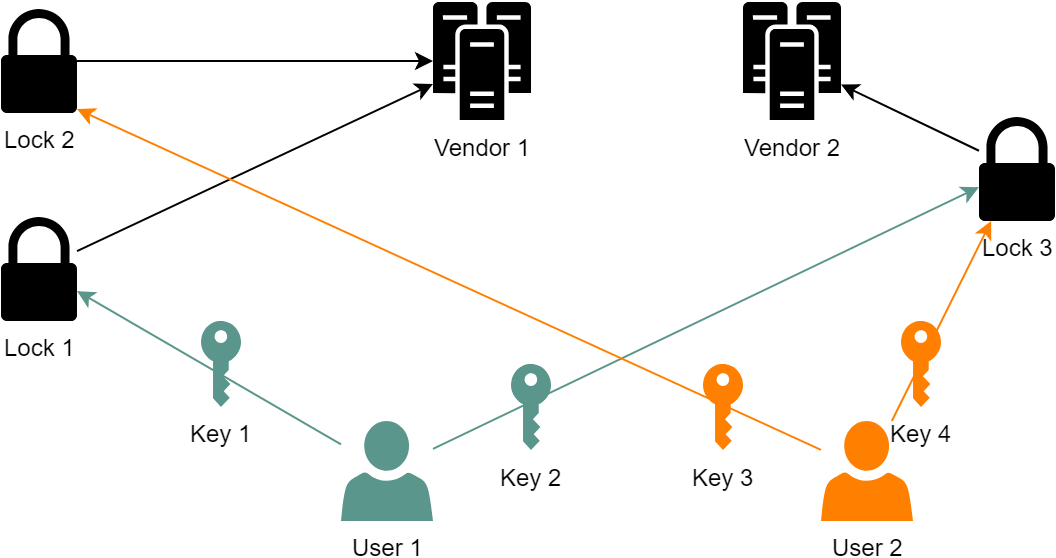
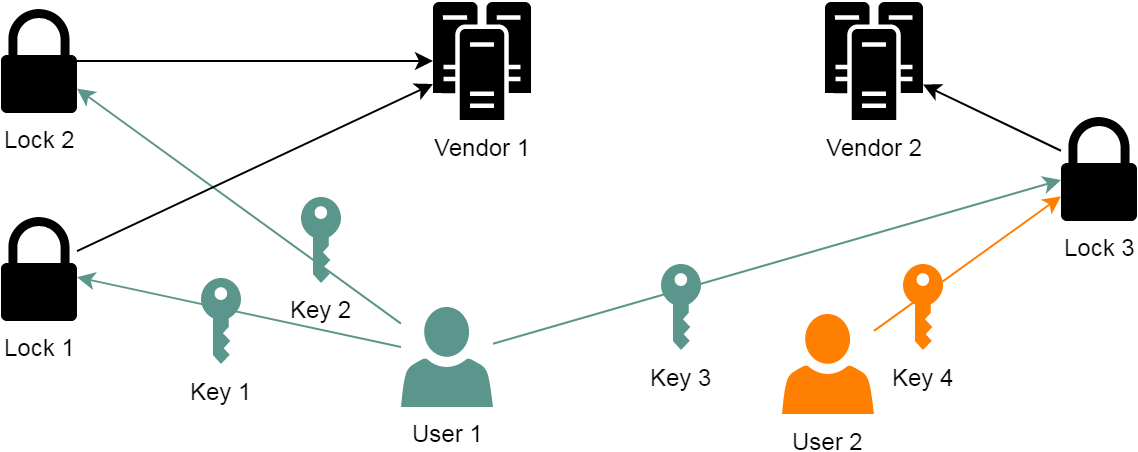
Updates from ShareLaTeX

diff --git a/050_evaluation.tex b/050_evaluation.tex
@@ -1,8 +1,9 @@
 \section{Evaluation des Prototypen}
 \label{sec:evaluation}
+    Mittels des Frameworks wird eine \gls{rest}-\gls{api} generiert, die für die Evauluation des Prototypen bei Bedarf verwendet wird. 
+    Diese wird so konfiguiert, dass deren Verwendung eine Authentifizierung voraussetzt, sowie jeglicher Nachrichtenaustausch mittels \gls{tls} verschlüsselt wird.
 
-    \subsection{Vulnerability Assessment des Prototypen}
-
+    \subsection{Vulnerability Assessment}
         \begin{itemize}[noitemsep]
             \item Evaluierung nach \cite{Miessler}, aber Fokus auf die in \fref{sec:prototype_requirements} ausgewählten Schwachstellen. 
             \item Vorgehen für jeden Punkt bei der Evaluierung beschreiben und Ergebnisse festhalten. 
@@ -17,88 +18,90 @@
         \end{itemize}
     
         \subsubsection*{I1: Insecure Web Interface}
-           \begin{itemize}[leftmargin=0cm,label={}]
-                \item \emph{Insecure API: User Enumeration}\label{vuln:prototype_userenum}\\
-                    Stuff.
-           \end{itemize} 
+            Da der Prototyp kein Webinterface hat, kann dieser Aspekt für die Evauluation nicht betrachtet werden.
            
         \subsubsection*{I2: Insecure Authentification/Authorization}
             \begin{itemize}[leftmargin=0cm,label={}]
                 \item \emph{Insufficient Password Protection}\label{vuln:prototype_pwdprot}\\
         	        Stuff.
+    	        \item Authentifizierung zur Nutzung der \gls{rest}-\gls{api}
             \end{itemize}
             
         \subsubsection*{I3: Insecure Network Services}
             \begin{itemize}[leftmargin=0cm,label={}]
-                \item \emph{Denial of Service via Commands}\label{vuln:prototype_doscmd}\\
-        	        Stuff.
+                \item \emph{Denial of Service via \gls{rest}-Server}\label{vuln:prototype_dos}\\
+        	        Jeder Knoten kann einen \gls{rest}-Server für seine Nutzer bereitstellen. 
+        	        Jedoch wird bei der Authentifizierung kein Rate-Limiting angewendet. 
+        	        Bei Knoten, die entsprechend wenig Rechenleistung bieten kann kann dies unter Umständen zu einem \gls{dos} führen. 
+        	        Zwar wird dadurch dem Nutzer der Zugriff zum Service verweigert, das Netzwerk an sich bleibt jedoch, wenn genug weitere Knoten nicht betroffen sind, funktional in Betrieb.
             \end{itemize}
             
         \subsubsection*{I4: Lack of Transport Encryption/Integrity Verification}
-            \begin{itemize}[leftmargin=0cm,label={}]
-                \item \emph{Insecure Password Transmission}\label{vuln:prototype_pwdtrns}\\
-                    sfaf
-            \end{itemize}
+            Für diese Kategorie wurden keine Schwachstellen gefunden. 
+            Die Kommunikation mit zwischen den Knoten, sowie dem Client und Knoten via \gls{rest}-Server kann mittels \gls{tls} gesichert werden. 
+            Es werden jeweils Zertifikate dafür verwendet.
             
         \subsubsection*{I5: Privacy Concerns}
             \begin{itemize}[leftmargin=0cm,label={}]
                 \item \emph{Unprotected User Information}\label{vuln:prototype_userdata}\\
                     Im Prototypen müssen für die validierung der Transaktionen alle Nutzer alle anderen Nutzer sehen. 
-                    Dazu muss in den \gls{acl}-Regeln die Operatrion \colorbox{light-gray}{\lstinline{READ}} auf alle Teilnehmertypen für alle Teilnehmer erlaubt sein. 
+                    Dazu muss in den \gls{acl}-Regeln die Operation \colorbox{light-gray}{\lstinline{READ}} auf alle Teilnehmertypen für alle Teilnehmer erlaubt sein. 
                     Der Mechanismus der Regeln im Hyperledger Composer Framework erlaubt es jedoch nicht Regeln für die einzelnen Attribute jeder Ressource festzulegen. 
-                    Dazu gehören im Fall des Typs \colorbox{light-gray}{\lstinline{User}} auch personenbezogene Daten wie Vor- und Nachname und E-Mailadresse. 
-                    Betrachtet man das Beispielnetzwerk in \fref{fig:pt_network} aus \fref{sec:prototype_arch_concept}, so könnte der Hersteller \colorbox{light-gray}{\lstinline{Vendor 1}} auch die Daten der Kunden von \colorbox{light-gray}{\lstinline{Vendor 2}} einsehen und speichern.
+                    Dazu gehören im Fall des Typs \colorbox{light-gray}{\lstinline{User}} auch personenbezogene Daten wie Vor- und Nachname und E-Mailadresse.\\
+                    Betrachtet man das Beispielnetzwerk in \fref{fig:pt_network} aus \fref{sec:prototype_arch_concept}, so könnte der Hersteller \colorbox{light-gray}{\lstinline{Vendor 1}} auch die Daten der Kunden von \colorbox{light-gray}{\lstinline{Vendor 2}}, in diesem Fall \colorbox{light-gray}{\lstinline{User 2}} einsehen und speichern.
             \end{itemize}
             
         \subsubsection*{I6: Insecure Cloud Interface}
+            Als Cloud Interface wird hier die Verbindung von einem Peer zum anderen betrachtet.
+            Die Daten aus den Transaktionen werden werden sozusagen ,,hochgeladen`` und der Nutzer kann nicht genau sagen auf welchem Server bzw. Knoten diese letztendlich auch gespeichert werden-
             \begin{itemize}[leftmargin=0cm,label={}]
-                \item 
+                \item \emph{Participant Enumeration}\label{vuln:prototype_enum_part}
+                    Erstellt ein autorisierter Nutzer einen neuen Teilnehmer (der Typ des Nutzers ist irrelevant), so wird diesem automatisch eine ID zugewiesen. 
+                    Diese ID besteht standardmäßig aus lediglich vier Ziffern und ist somit für einen Angreifer einfach zu erraten.
+                \item \emph{Asset Enumeration}\label{vuln:prototype_enum_asset}
+                    Wie auch bei der Participant Enumeration werrd bei der Erstellung von Assets die IDs automatisch vergeben. 
+                    Auch hier besteht die ID lediglich aus viel Ziffern.
             \end{itemize}
             
         \subsubsection*{I7: Insecure Mobile Interface}
-            \begin{itemize}[leftmargin=0cm,label={}]
-                \item \emph{Stolen User Settings}\label{vuln:prototype_usersettings}\\
-                    sadfasdf
-            \end{itemize}
+            Da der Prototyp kein mobiles Interface hat, kann dieser Aspekt nicht betrachtet werden.
             
         \subsubsection*{I8: Insufficient Security Configurability}
-            Nicht mittels \gls{cvss} bewertbar
+            \begin{itemize}[leftmargin=0cm,label={}]
+    	        \item \emph{Unencrypted Data Storage}\label{vuln:prototype_db}\\
+                    Die Speicherung der jeweiligen Kopie der Blockchain auf den Knoten erfolgt über eine unverschlüsselte Datenbank. 
+                    Hat ein Angreifer Zugriff auf den Knoten und die Datenbank (der Angreifer muss dafür nicht zwingend Teilnehmer im Netzwerk sein), so ist es für ihn möglich an alle Daten, die auf der Blockchain gepeichert sind, zu kommen. 
+                    Da der Prototyp mit dem Konzept einer privaten Blockchain funktioniert, sollten die dort gespeicherten Daten auch nicht an Außenstehende gelangen.
+            \end{itemize}
             
         \subsubsection*{I9:Insecure Software/Firmware}
             \begin{itemize}[leftmargin=0cm,label={}]
-    	        \item \emph{Hardcoded Firmware Key}\label{vuln:prototype_firmwarekey}\\
-                    asdfasdf
+    	        \item \emph{Single Point of Failure}\label{vuln:prototype_spf}\\
+                    In Composer gibt es zwei unterschiedliche Arten von Adminsitratoren: den Business Network Administrator (je einen pro Business Network) und den Peer Administrator (je einen pro Hyperledger Fabric Instanz)
             \end{itemize}
             
         \subsubsection*{I10: Poor Physical Security}
             Wird auch hier wie in \fref{sec:problem_limit} erwähnt, nicht betrachtet.
     
+    \sloppy\url{https://www.ibm.com/developerworks/cloud/library/cl-deploy-interact-extend-local-blockchain-network-with-hyperledger-composer/index.html}\\
+    \sloppy\url{https://wiki.hyperledger.org/_media/security/technical_report_linux_foundation_fabric_august_2017_v1.1.pdf}\\
+    \sloppy\url{https://wiki.hyperledger.org/_media/security/management_report_linux_foundation_fabric_august_2017_v1.1.pdf}
     
     \subsection{Bewertung nach CVSS}
-    	\todo[color=yellow]{not sure...}\noindent In die Tabelle die Strings oder einzelne Spalten mit den Faktoren etc.?\\
-    	{\large\textsc{Tabelle unfertig, nur provisorisch}}
-        %\begin{sidewaystable}[H]
-          {\centering
-            \begin{table}[H]
-            {\small
-            \begin{tabular}{|>{\raggedright}p{0.28\textwidth}|m{0.56\textwidth}|m{0.05\textwidth}|}
-                \hline
-                \textbf{}                                      & \textbf{Vector String}                        & \textbf{Score}   \\ \hline
-                \rowcolor{light-gray}
-                \textbf{API: User Enumeration}                 & CVSS:3.0/AV:P/AC:L/PR:N/UI:N/S:C/C:N/I:N/A:H  & 5.3              \\ \hline
-                \textbf{Insufficient Password Protection}      & CVSS:3.0/AV:N/AC:H/PR:N/UI:N/S:U/C:L/I:H/A:N  & 6.5              \\ \hline
-                \rowcolor{light-gray}
-                \textbf{API: Privilege Escalation}             & CVSS:3.0/AV:N/AC:L/PR:L/UI:N/S:C/C:H/I:N/A:L  & 8.5              \\ \hline
-                \textbf{Insecure Password Policy}              & CVSS:3.0/AV:N/AC:H/PR:N/UI:N/S:C/C:L/I:N/A:H  & 7.5              \\ \hline
-                \rowcolor{light-gray}
-                \textbf{Phishing}                              & CVSS:3.0/AV:N/AC:H/PR:N/UI:R/S:C/C:L/I:N/A:H  & 6.9              \\ \hline
-                \textbf{Replay}                                & CVSS:3.0/AV:P/AC:L/PR:N/UI:R/S:U/C:N/I:H/A:L  & 4.9              \\ \hline
-                \rowcolor{light-gray}
-                \textbf{Device Spoofing}                       & CVSS:3.0/AV:P/AC:L/PR:N/UI:R/S:U/C:N/I:H/A:L  & 4.9              \\ \hline
-                \textbf{Missing 2-Factor Authentication}       & CVSS:3.0/AV:N/AC:H/PR:N/UI:N/S:C/C:N/I:L/A:L  & 5.4
-                \label{tab:evaluation_bewertung}\\ \hline
+    	\begin{table}[H]
+            \centering
+            \begin{tabular}{|m{0.2\textwidth}|m{0.2\textwidth}|}
+            \hline
+            \textbf{Rating}   & \textbf{\gls{cvss} Score}   \\ \hline
+            \rowcolor{light-gray}
+            None              & 0.0                         \\ \hline
+            Low               & 0.1 - 3.9                   \\ \hline
+            \rowcolor{light-gray}
+            Medium            & 4.0 - 6.9                   \\ \hline
+            High              & 7.0 - 8.9                   \\ \hline
+            \rowcolor{light-gray}
+            Critical          & 9.0 - 10.0                  \\ \hline
             \end{tabular}
-            }
-            \end{table}}
-          %\caption{Nach \gls{cvss} bewertete Schwachstellen aus \fref{sec:analysis_vulns}}
-        %\end{sidewaystable}
+            \caption[CVSS Scores des Prototypen]{CVSS Scores des Prototypen}
+            \label{tab:eval_cvss}
+        \end{table}

diff --git a/032_cvss_scoring.tex b/032_cvss_scoring.tex
@@ -2,37 +2,29 @@
 \label{sec:analysis_cvss}
     Da die Arbeit sich um die Verwendung einer Blockchain-Technologie dreht, werden zunächst alle Schwachstellen gefiltert, die prinzipiell nicht durch deren Verwendung behoben werden können.
     Dazu gehören beispielsweise die Übertragung per Bluetooth (unsichere Pairing-Mechanismen und Session Keys), sowie physische Sicherheit und blabla\todo[color=cyan]{weitere auflisten}
-    In der \fref{tab:bewertung_vulns} werden somit nur die Schwachstellen berwertet, die potentiell verhindert werden können und später am Prototypen getestet werden.
+    In der \fref{tab:vulns_cvss_short} werden somit nur die Schwachstellen berwertet, die potentiell verhindert werden können und später am Prototypen getestet werden.
     Die Bewertung wird mittels des online bereitgestellten Rechners\cite{CvssCalc} durchgeführt.
 	Grundlage hierfür ist der in \fref{sec:sota_sa_cvss} vorgestellte Base Score.
 	\footnote{Ein Scope Change wird in der Bewertung als solcher angesehen, sobald von den in \fref{fig:sl_arch} dargestellten Komponenten mindestens eine Zusätzliche betroffen ist.}
 	Darin wurden ähnliche Angriffe zusammengefasst und die \gls{cvss}-Vector Strings zur Nachverfolgung hintelegt, um die Nachverfolgung der Bewertung einzelner Faktoren zu gewährleisten.
 	
-	\todo[color=yellow]{not sure...}\noindent In die Tabelle die Strings oder einzelne Spalten mit den Faktoren etc.?\\
+	\todo[color=yellow]{kleine Tabelle hier einfügen}\
+	noindent In die Tabelle die Strings oder einzelne Spalten mit den Faktoren etc.?\\
 	{\large\textsc{Tabelle unfertig, nur provisorisch}}
-    %\begin{sidewaystable}[H]
-      {\centering
-        \begin{table}[H]
-        {\small
-        \begin{tabular}{|>{\raggedright}p{0.28\textwidth}|m{0.56\textwidth}|m{0.05\textwidth}|}
-            \hline
-            \textbf{}                                      & \textbf{Vector String}                        & \textbf{Score}   \\ \hline
-            \rowcolor{light-gray}
-            \textbf{API: User Enumeration}                 & CVSS:3.0/AV:P/AC:L/PR:N/UI:N/S:C/C:N/I:N/A:H  & 5.3              \\ \hline
-            \textbf{Insufficient Password Protection}      & CVSS:3.0/AV:N/AC:H/PR:N/UI:N/S:U/C:L/I:H/A:N  & 6.5              \\ \hline
-            \rowcolor{light-gray}
-            \textbf{API: Privilege Escalation}             & CVSS:3.0/AV:N/AC:L/PR:L/UI:N/S:C/C:H/I:N/A:L  & 8.5              \\ \hline
-            \textbf{Insecure Password Policy}              & CVSS:3.0/AV:N/AC:H/PR:N/UI:N/S:C/C:L/I:N/A:H  & 7.5              \\ \hline
-            \rowcolor{light-gray}
-            \textbf{Phishing}                              & CVSS:3.0/AV:N/AC:H/PR:N/UI:R/S:C/C:L/I:N/A:H  & 6.9              \\ \hline
-            \textbf{Replay}                                & CVSS:3.0/AV:P/AC:L/PR:N/UI:R/S:U/C:N/I:H/A:L  & 4.9              \\ \hline
-            \rowcolor{light-gray}
-            \textbf{Device Spoofing}                       & CVSS:3.0/AV:P/AC:L/PR:N/UI:R/S:U/C:N/I:H/A:L  & 4.9              \\ \hline
-            \textbf{Missing 2-Factor Authentication}       & CVSS:3.0/AV:N/AC:H/PR:N/UI:N/S:C/C:N/I:L/A:L  & 5.4
-            \label{tab:bewertung_vulns}\\ \hline
+    \begin{table}[H]
+        \centering
+        \begin{tabular}{|m{0.2\textwidth}|m{0.2\textwidth}|}
+        \hline
+        \textbf{Rating}   & \textbf{\gls{cvss} Score}   \\ \hline
+        \rowcolor{light-gray}
+        None              & 0.0                         \\ \hline
+        Low               & 0.1 - 3.9                   \\ \hline
+        \rowcolor{light-gray}
+        Medium            & 4.0 - 6.9                   \\ \hline
+        High              & 7.0 - 8.9                   \\ \hline
+        \rowcolor{light-gray}
+        Critical          & 9.0 - 10.0                  \\ \hline
         \end{tabular}
-        }
-        \end{table}}
-      %\caption{Nach \gls{cvss} bewertete Schwachstellen aus \fref{sec:analysis_vulns}}
-      \label{tab:test}
-    %\end{sidewaystable}
+        \caption[CVSS Scores des Prototypen]{CVSS Scores des Prototypen. Eine detailliertere Tabelle mit den einzeln bewerteten Faktoren befindet sich im Anhang}
+        \label{tab:vulns_cvss_short}
+    \end{table}

diff --git a/043_composer.tex b/043_composer.tex
@@ -6,7 +6,8 @@
         \medskip\\
         \noindent Für die Entwicklung der Transaktionslogik von Business Networks wird die Sprache JavaScript verwendet. 
         Zusätzlich werden domainspezifische Sprachen für die Modellierung der Akteure im Netzwerk, sowie der Zugriffskontrolle und Anfragen and die Blockchcain eingesetzt.
-        Als Datenbank kann LevelDB oder CouchCB verwendet werden. 
+        Als Datenbank kann LevelDB oder CouchCB verwendet werden.
+        Betrieben wird die Applikation innerhalb eines Docker-Containers.
         
         \noindent Für den Prototypen relevante Eigenschaften des Hyperledger Composer Frameworks:
         \begin{itemize}[noitemsep]
@@ -36,9 +37,9 @@
     	\end{figure}
         
         \begin{itemize}[noitemsep]
-            \item Möglichkeit eine REST-\gls{api} pro Business Network Card mit folgenden Features zu generieren
+            \item Möglichkeit eine \gls{rest}-\gls{api} pro Business Network Card mit folgenden Features zu generieren
                 \begin{itemize}[noitemsep]
-                    \item Nutzung von API-Keys für die Sicherung der REST-\gls{api}
+                    \item Nutzung von API-Keys für die Sicherung der \gls{rest}-\gls{api}
                     \item Authentifizierung via Passport auf Linux-Maschinen
                     \item ,,Explorer Test Interface``, welches automatisch generiert wird und essentiell eine Dokumentation der \gls{api} darstellt mit der zusätzlichen Möglichkeit die \gls{api}-Calls zu testen.
                     \item Key für dynamisches Logging
@@ -69,7 +70,7 @@
             \item How to ensure a consistent state across all entities?...
             \item Hyperledger bietet CA für Identitäten, Authentifizierung \textrightarrow\ wie ist das bei Composer?
             \item \begin{itemize}
-                \item erlaubt Sicherheitseinstellungen beim Erstellen des REST-API-Servers
+                \item erlaubt Sicherheitseinstellungen beim Erstellen des \gls{rest}-\gls{api}-Servers
                 \item API Key
                 \item Authentication mit Passport
                 \item explorer Test interface ?
@@ -113,3 +114,5 @@ Business networks may contain a set of access control rules. Access control rule
 \medskip
 Historian registry\\
 The historian is a specialised registry which records successful transactions, including the participants and identities that submitted them. The historian stores transactions as HistorianRecord assets, which are defined in the Hyperledger Composer system namespace.
+\medskip
+The Hyperledger Composer Historian is a specialised registry which records successful transactions, including the participants and identities that submitted them. The historian stores transactions as HistorianRecord assets, which are defined in the Hyperledger Composer system namespace.

diff --git a/100_appendix_cvss.tex b/100_appendix_cvss.tex
@@ -1,4 +1,31 @@
 \section{Details CVSS}
     Put this shit here.\todo[color=cyan]{Details einfügen}
-    
+\newpage
+\section{CVSS-Score Tabellen}
+     %\begin{sidewaystable}[H]
+      {\centering
+        \begin{table}[H]
+        {\small
+        \begin{tabular}{|>{\raggedright}p{0.28\textwidth}|m{0.56\textwidth}|m{0.05\textwidth}|}
+            \hline
+            \textbf{}                                      & \textbf{Vector String}                        & \textbf{Score}   \\ \hline
+            \rowcolor{light-gray}
+            \textbf{API: User Enumeration}                 & CVSS:3.0/AV:P/AC:L/PR:N/UI:N/S:C/C:N/I:N/A:H  & 5.3              \\ \hline
+            \textbf{Insufficient Password Protection}      & CVSS:3.0/AV:N/AC:H/PR:N/UI:N/S:U/C:L/I:H/A:N  & 6.5              \\ \hline
+            \rowcolor{light-gray}
+            \textbf{API: Privilege Escalation}             & CVSS:3.0/AV:N/AC:L/PR:L/UI:N/S:C/C:H/I:N/A:L  & 8.5              \\ \hline
+            \textbf{Insecure Password Policy}              & CVSS:3.0/AV:N/AC:H/PR:N/UI:N/S:C/C:L/I:N/A:H  & 7.5              \\ \hline
+            \rowcolor{light-gray}
+            \textbf{Phishing}                              & CVSS:3.0/AV:N/AC:H/PR:N/UI:R/S:C/C:L/I:N/A:H  & 6.9              \\ \hline
+            \textbf{Replay}                                & CVSS:3.0/AV:P/AC:L/PR:N/UI:R/S:U/C:N/I:H/A:L  & 4.9              \\ \hline
+            \rowcolor{light-gray}
+            \textbf{Device Spoofing}                       & CVSS:3.0/AV:P/AC:L/PR:N/UI:R/S:U/C:N/I:H/A:L  & 4.9              \\ \hline
+            \textbf{Missing 2-Factor Authentication}       & CVSS:3.0/AV:N/AC:H/PR:N/UI:N/S:C/C:N/I:L/A:L  & 5.4
+            \label{tab:bewertung_vulns}\\ \hline
+        \end{tabular}
+        }
+        \end{table}}
+      %\caption{Nach \gls{cvss} bewertete Schwachstellen aus \fref{sec:analysis_vulns}}
+      \label{tab:test}
+    %\end{sidewaystable}
 \newpage

diff --git a/044_arch.tex b/044_arch.tex
@@ -19,8 +19,8 @@
         \noindent In \fref{fig:pt_network} ist ein Beispiel mit zwei verschiedenen Herstellern \colorbox{light-gray}{\lstinline{V1,V2}}, drei Schlössern \colorbox{light-gray}{\lstinline{L1,L2,L3}} und drei Nutzern \colorbox{light-gray}{\lstinline{U1,U2}}. 
         Insgesamt wurden vier Schlüssel \colorbox{light-gray}{\lstinline{K1-K4}} ausgestellt.
         \colorbox{light-gray}{\lstinline{L1}} und \colorbox{light-gray}{\lstinline{L2}} sind von Hersteller \colorbox{light-gray}{\lstinline{V1}}, \colorbox{light-gray}{\lstinline{L3}} stammt von Hersteller \colorbox{light-gray}{\lstinline{H2}}. 
-        \colorbox{light-gray}{\lstinline{U1}} hat mit den beiden Schlüsseln \colorbox{light-gray}{\lstinline{K1,K2}} die Möglichkeit \colorbox{light-gray}{\lstinline{L1}} und \colorbox{light-gray}{\lstinline{L3}} zu öffnen. 
-        Der Nutzer \colorbox{light-gray}{\lstinline{U2}} kann mit \colorbox{light-gray}{\lstinline{K3}} und \colorbox{light-gray}{\lstinline{K4}} die Schlösser \colorbox{light-gray}{\lstinline{L2}} und \colorbox{light-gray}{\lstinline{L3}} öffnen.
+        \colorbox{light-gray}{\lstinline{U1}} hat mit dessen drei Schlüsseln \colorbox{light-gray}{\lstinline{K1,K2,K3}} die Möglichkeit \colorbox{light-gray}{\lstinline{L1,L2}} und \colorbox{light-gray}{\lstinline{L3}} zu öffnen. 
+        Der Nutzer \colorbox{light-gray}{\lstinline{U2}} kann mit \colorbox{light-gray}{\lstinline{K4}} das Schloss \colorbox{light-gray}{\lstinline{L3}} öffnen.
         \begin{figure}[H]
     		\centering
     		\includegraphics[width=\textwidth]{graphics/pt_network.png}

diff --git a/998_fragen.tex b/998_fragen.tex
@@ -1,24 +1,8 @@
-\section*{Fragen}
+\section*{Fragen etc.}
     \begin{itemize}
         \item Vor Abgabe noch Sophie schicken und ,,wichtige`` Kapitel markieren
         \item Wichtige Kapitel: 1 (Einleitung), 2 (Problemstellung), etc.
     \end{itemize}
-    
-\section*{ToDo}
-    \begin{enumerate}[noitemsep]
-        \item Evaluation machen
-        \item Scoring der Analyse machen
-        \item Vergleich schreiben
-        \item Schluss schreiben
-        \item Anforderungen an den Prototypen anpassen
-        \item Beschreibung des Frameworks ordentlich schreiben
-        \item Sicherheitsanalyse nochmal durchgehen
-        \item Evtl. kurzen Teil zu \gls{iot} bei den Grundlagen?
-        \item Source Code Listings stylen
-        \item Anhänge schreiben
-        \item Abstract schreiben
-    \end{enumerate}
-    
 \begin{table}[H]
 \centering
 \begin{tabular}{l|c|c|c}

diff --git a/060_comparison.tex b/060_comparison.tex
@@ -3,6 +3,8 @@
     Faktischer Vergleich beider Ergebnisse anhand der Kategorien, der Scores der Schwachstellen, Aufwand.
     \begin{itemize}[noitemsep]
         \item evtl. noch eine Gruppierung, der in \fref{sec:evaluation} gefunden Schwachstellen solche, die mit Erweiterung des Prototypen mitigiert werden können und jene, die nicht wegzubekommen sind?
+        \item Nicht alle in \fref{sec:evaluation} gefundenen potentiellen Schwachstellen sind auf eine Blockchain zurückzuführen.
+        \item Die Probleme der Proxy-Architektur wären damit beseitigt, aber jedoch bleiben die Probleme der direkten Architektur erhalten
     \end{itemize}
-    Nicht alle in \fref{sec:evaluation} gefundenen potentiellen Schwachstellen sind auf eine Blockchain zurückzuführen.
+    
     

diff --git a/_glossary.tex b/_glossary.tex
@@ -13,6 +13,7 @@
 \newacronym{p2p}{P2P}{Peer-To-Peer}
 \newacronym{pos}{PoS}{Proof-Of-Stake}
 \newacronym{pow}{PoW}{Proof-Of-Work}
+\newacronym{rest}{REST}{Representational State Transfer}
 \newacronym{sk}{SK}{Session Key}
 \newacronym{ssl}{SSL}{Secure Socket Layer}
 \newacronym{tls}{TLS}{Transport Layer Security}
